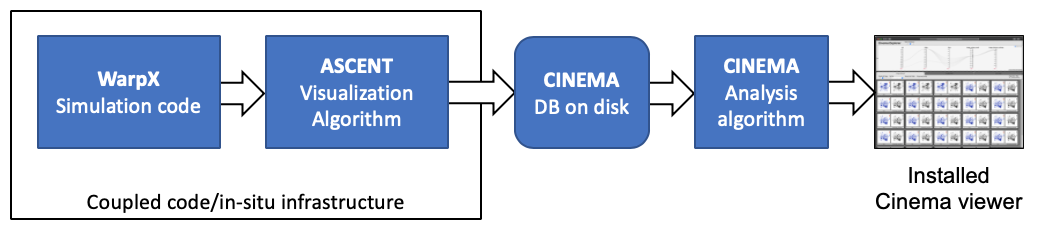
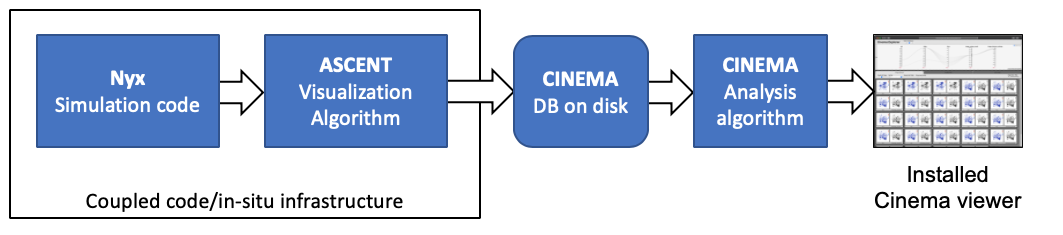
update

diff --git a/readme.md b/readme.md
@@ -7,7 +7,7 @@
 </p>
 <p align="center">Diagram of the workflow in this example.</p>
 
-This is a [research](https://pantheonscience.github.io/standards/) release of an end-to-end pipeline for the [WarpX](https://github.com/ECP-WarpX/WarpX) code. Using the ECP ALPINE in situ infrastructure [ASCENT](https://github.com/Alpine-DAV/ascent), the pipeline accesses simulation data, defines and extracts an isosurface, then extracts a Cinema database of the results.
+This is a [research](https://pantheonscience.github.io/standards/) release of an end-to-end pipeline for the [Nyx](https://amrex-astro.github.io/Nyx) code. Using the ECP ALPINE in situ infrastructure [ASCENT](https://github.com/Alpine-DAV/ascent), the pipeline accesses simulation data, defines and extracts an isosurface, then extracts a Cinema database of the results.
 
 The output Cinema databases are further processed in a post-processing phase. It takes as input the Cinema databases produced by ASCENT as described above, computes several values on the images for each database, and at the end installs a Cinema viewer that includes a query on several variables.
 
@@ -25,9 +25,9 @@ Screen capture of the resulting Cinema database, viewed in Cinema:Explorer
 
 The `main.workflow` file contains the [Popper](https://falsifiable.us) dependencies that are run during this workflow. The steps, executed in order, are:
 
-- `install dependencies` This installs and builds the current master of WarpX in a scratch workspace.
+- `install dependencies` This installs and builds the current master of Nyx in a scratch workspace.
 
-- `execute` Runs WarpX on 6 nodes, using setup files in the `input` directory. This includes an `alpine_actions.json` file that creates a visualization and exports a Cinema database. 
+- `execute` Runs Nyx on 6 nodes, using setup files in the `input` directory. This includes an `alpine_actions.json` file that creates a visualization and exports a Cinema database. 
 
 - `check job completion` This step pauses the pipeline until the `execute` job finishes.
 
